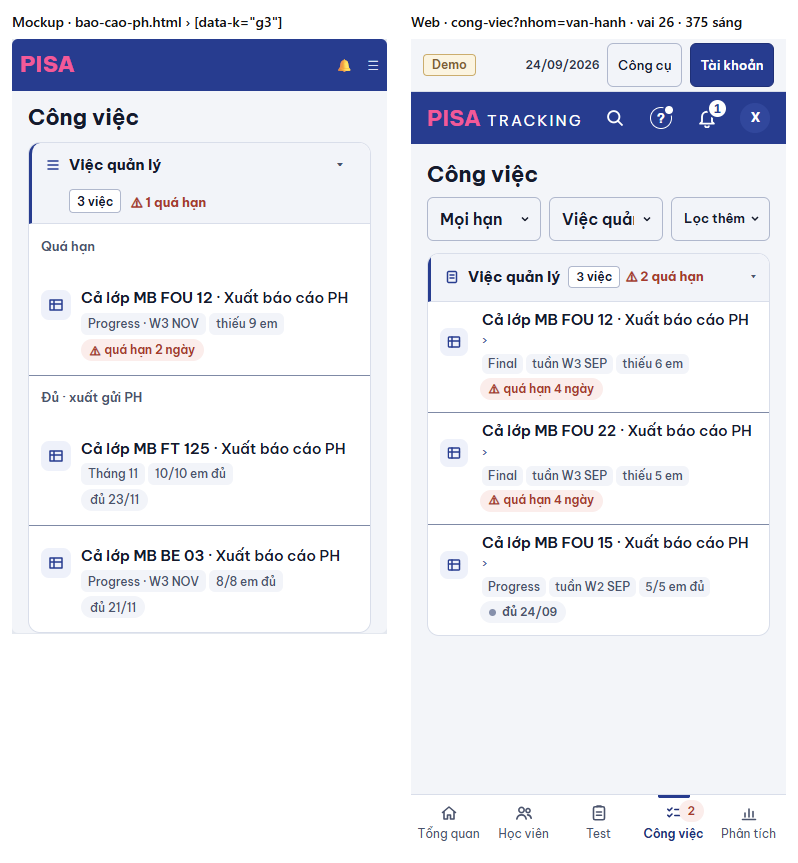
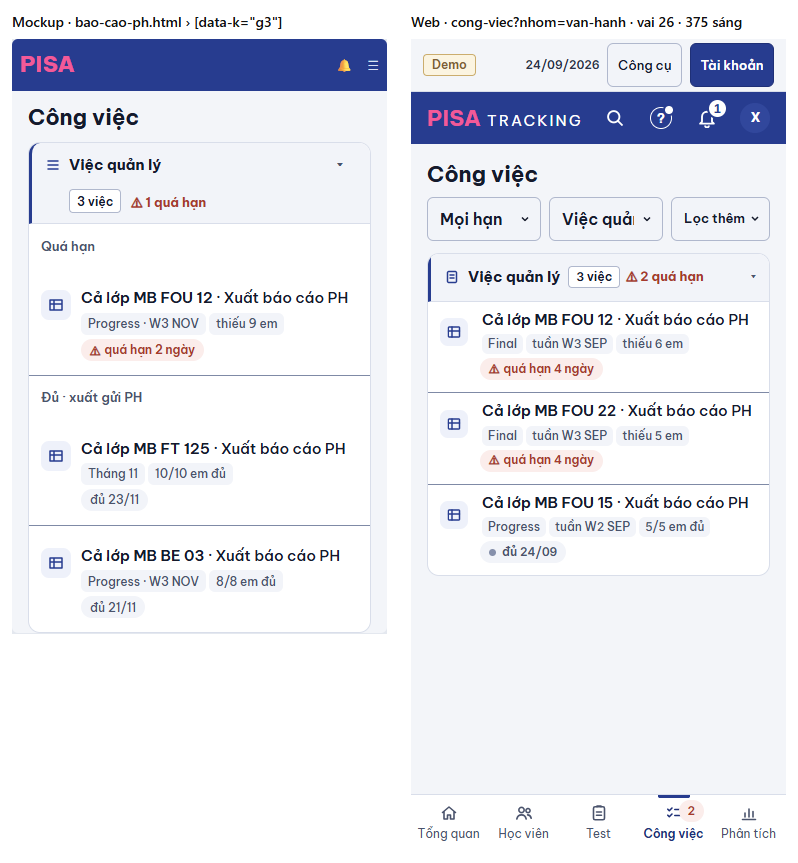
BAO-CAO-PH b: bỏ dấu › rời dòng ở tên việc Xuất báo cáo PH (đã có nút), chụp lại k1 + g3

diff --git a/web/src/modules/congViec/DanhSachViec.tsx b/web/src/modules/congViec/DanhSachViec.tsx
@@ -439,7 +439,8 @@ function DongLop({ it, ...dong }: ChungDong & { it: WorkItem }) {
               {caLop && <><b className="font-semibold">{t('Cả lớp {lop}', { lop: it.classCode! })}</b> · </>}{tenViec(tenGoc)}
             </span>
             {chipMuc(it, false)}
-            {dong.moTrang(it) && !con && <span aria-label={t('mở trang')} className="text-[13px] font-normal text-[color:var(--accent)]">›</span>}
+            {/* BAO-CAO-PH b (mockup k1): việc Xuất báo cáo PH đã có nút "Báo cáo PH ›" / Xuất lớp — tên không thêm "›". */}
+            {dong.moTrang(it) && !con && it.group !== 'xuat_bc_ph' && <span aria-label={t('mở trang')} className="text-[13px] font-normal text-[color:var(--accent)]">›</span>}
           </span>
           <ThePhu ds={doiTuong} />
         </button>
